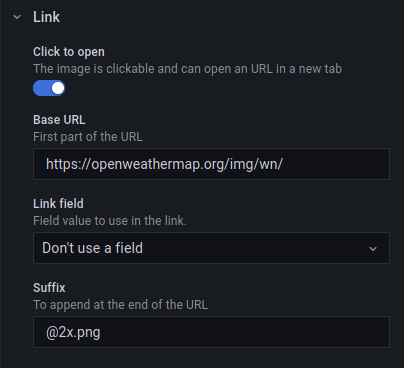
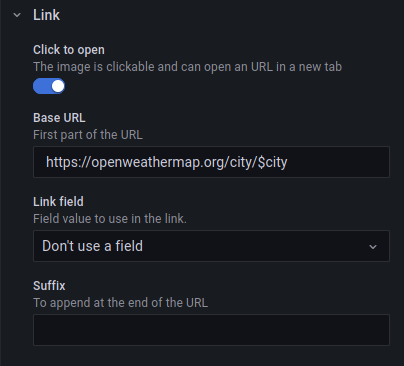
Support variable in link

diff --git a/src/DynamicImagePanel.tsx b/src/DynamicImagePanel.tsx
@@ -414,6 +414,15 @@ export class DynamicImagePanel extends PureComponent<Props> {
     let end = options.suffix === undefined ? '' : options.suffix;
     end = this.props.replaceVariables(end);
 
+    let start_link;
+    let end_link;
+    if (options.open_url.enable) {
+      start_link = options.open_url.base_url === undefined ? '' : options.open_url.base_url;
+      start_link = this.props.replaceVariables(start_link);
+      end_link = options.open_url.suffix === undefined ? '' : options.open_url.suffix;
+      end_link = this.props.replaceVariables(end_link);
+    }
+
     if (!values || values.length === 0) {
       console.error('Serie contains no values');
       throw new Error('No data found in response. Please check your query');
@@ -432,7 +441,7 @@ export class DynamicImagePanel extends PureComponent<Props> {
         {values.map((value) => {
           let clickable;
           if (options.open_url.enable) {
-            clickable = options.open_url.base_url + value.link + options.open_url.suffix;
+            clickable = start_link + value.link + end_link;
           }
           return (
             <Image
